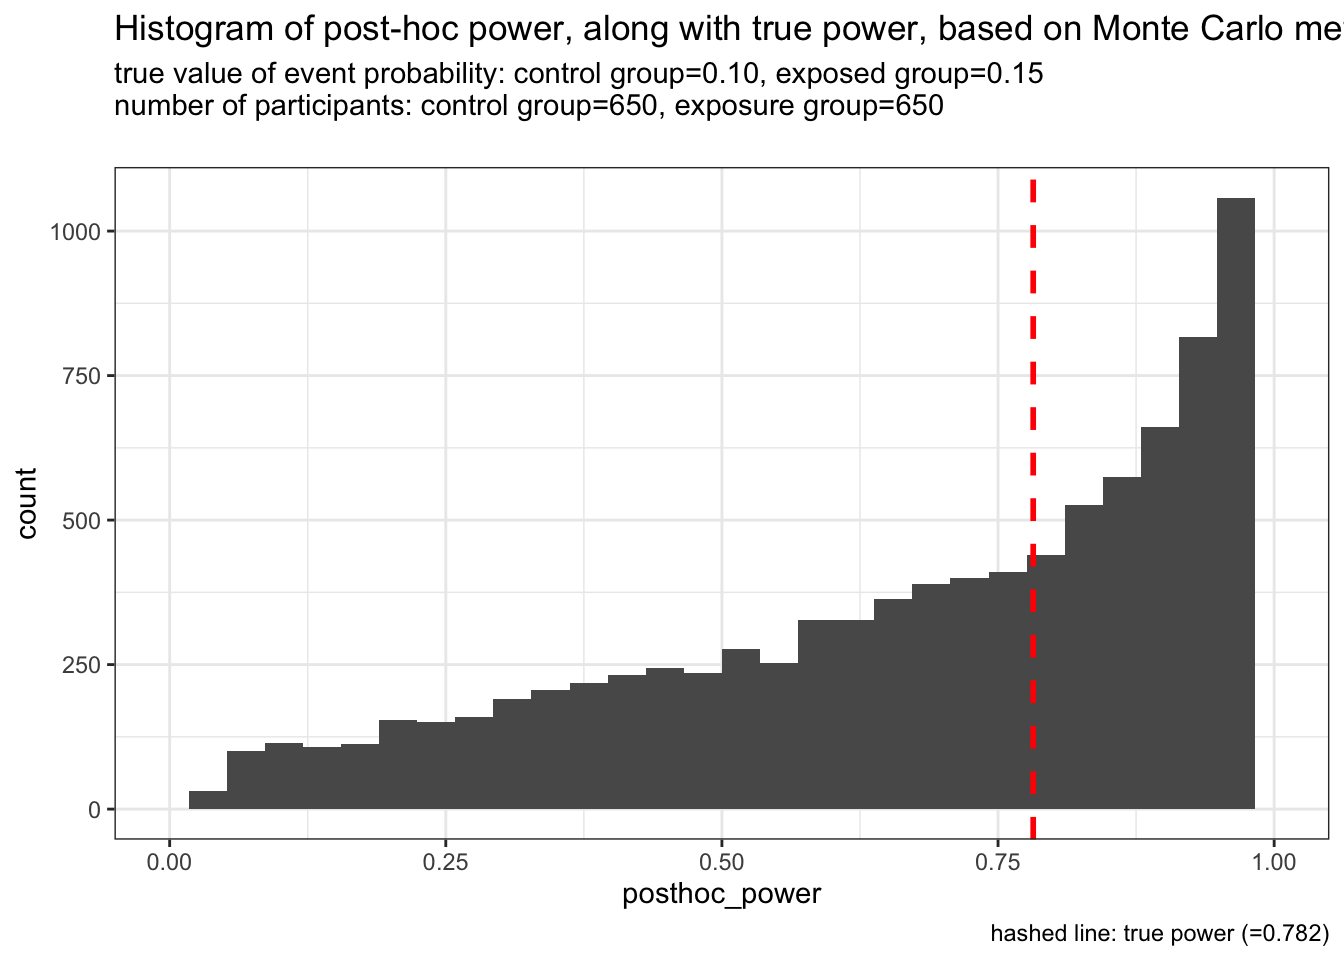
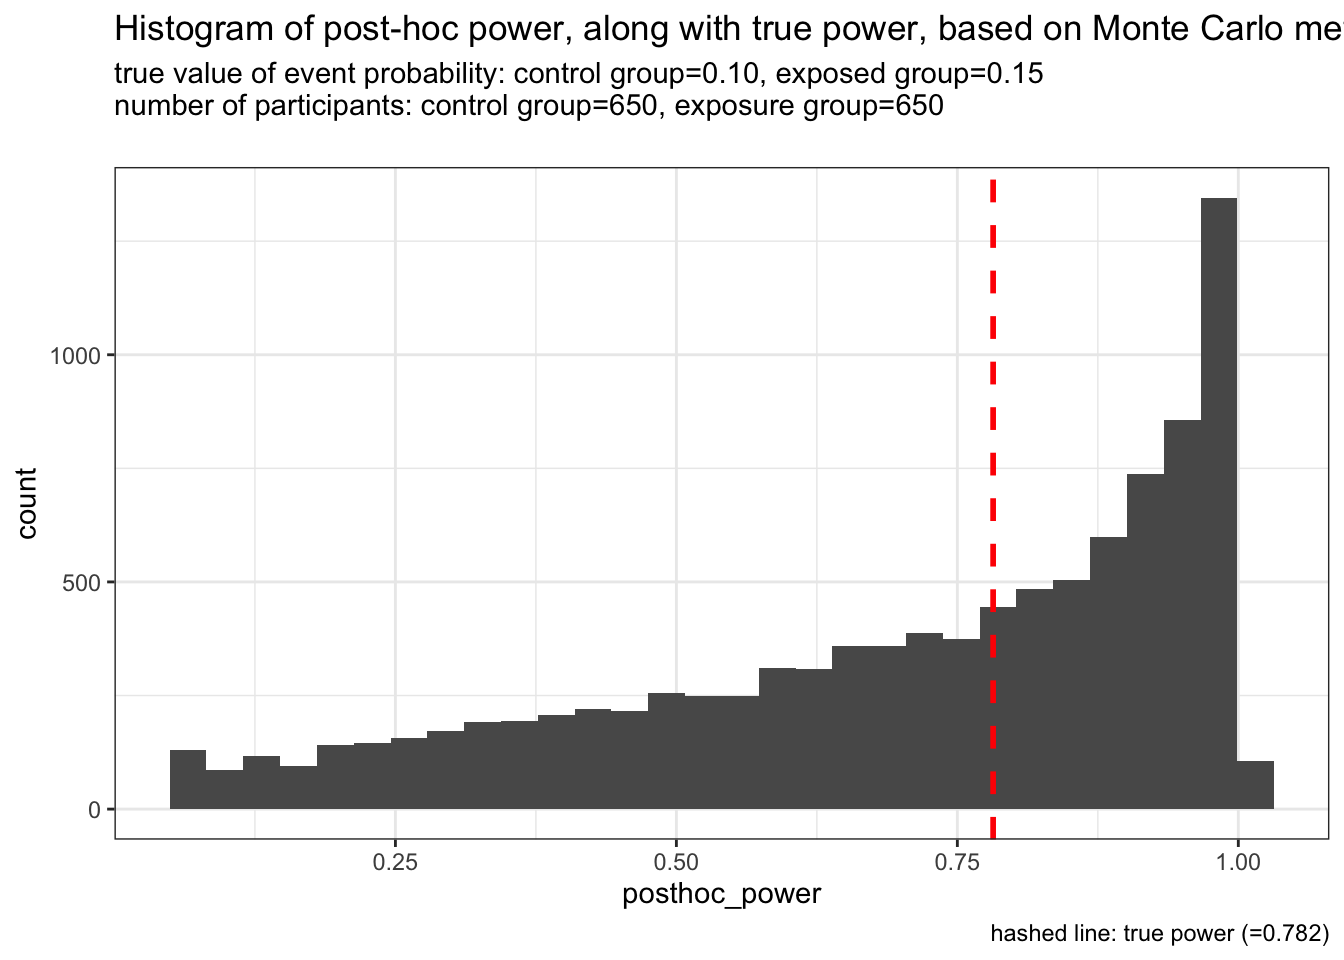
modified text

diff --git a/content/post/2022-08-06-posthoc-power/index.html b/content/post/2022-08-06-posthoc-power/index.html
@@ -98,7 +98,6 @@ Visualize_PosthocPowerAnalysis &lt;- function(n1, n2, prob1, prob2, itr=10000){
   plot &lt;- ggplot(data = data, aes(x = posthoc_power)) + 
     geom_histogram() + 
     geom_vline(xintercept = true_power, linetype = 2, size=1, colour = &quot;red&quot;) + 
-    xlim(c(0, 1)) +
     labs(title = &quot;Histogram of post-hoc power, along with true power, based on Monte Carlo method&quot;,
          subtitle = subtitle,
          caption = caption) + 
@@ -129,7 +128,7 @@ Visualize_PosthocPowerAnalysis &lt;- function(n1, n2, prob1, prob2, itr=10000){
 <h3>例1</h3>
 <p>各群200人 (合計400人)、コントロール群でイベント発生割合が10%, 曝露群で15% (i.e., risk ratio = 1.5) とします。</p>
 <p>下の図を見てください。例1の設定では、真のpower (=prospective power) は0.33です。
-一方、この設定で得られたサンプリングされた集団で得たpost-hoc powerは0.10程度から0.90近くまで、非常に様々な値を取ります。
+一方、この設定で得られたサンプリングされた集団で得たpost-hoc powerは0付近から1.0近くまで、非常に様々な値を取ります。
 また、post-hoc powerの最頻値もprospective powerから乖離していますね。</p>
 <p>これじゃ、post-hoc powerを見たところで、何も言えないなーって感じしちゃいますよね。</p>
 <pre class="r"><code>Visualize_PosthocPowerAnalysis(n1 = 200, n2 = 200, 
@@ -148,7 +147,7 @@ Visualize_PosthocPowerAnalysis &lt;- function(n1, n2, prob1, prob2, itr=10000){
 <p>やけくそ気味に各群1000人 (合計2000人) としました。prospective power=0.925です。</p>
 <p>こうなると、かなりprospective powerとpost-hoc powerが近くなることがわかります。
 ただprospective powerが0.925と、ほぼほぼ有意と判断される状況ですから、post-hoc power analysisをしたい状況ではないような気がします。</p>
-<pre class="r"><code>Visualize_PosthocPowerAnalysis(n1 = 1500, n2 = 1500, 
+<pre class="r"><code>Visualize_PosthocPowerAnalysis(n1 = 1000, n2 = 1000, 
                                prob1 = 0.1, prob2 = 0.15)</code></pre>
 <p><img src="{{< blogdown/postref >}}index_files/figure-html/unnamed-chunk-4-1.png" width="672" /></p>
 </div>
